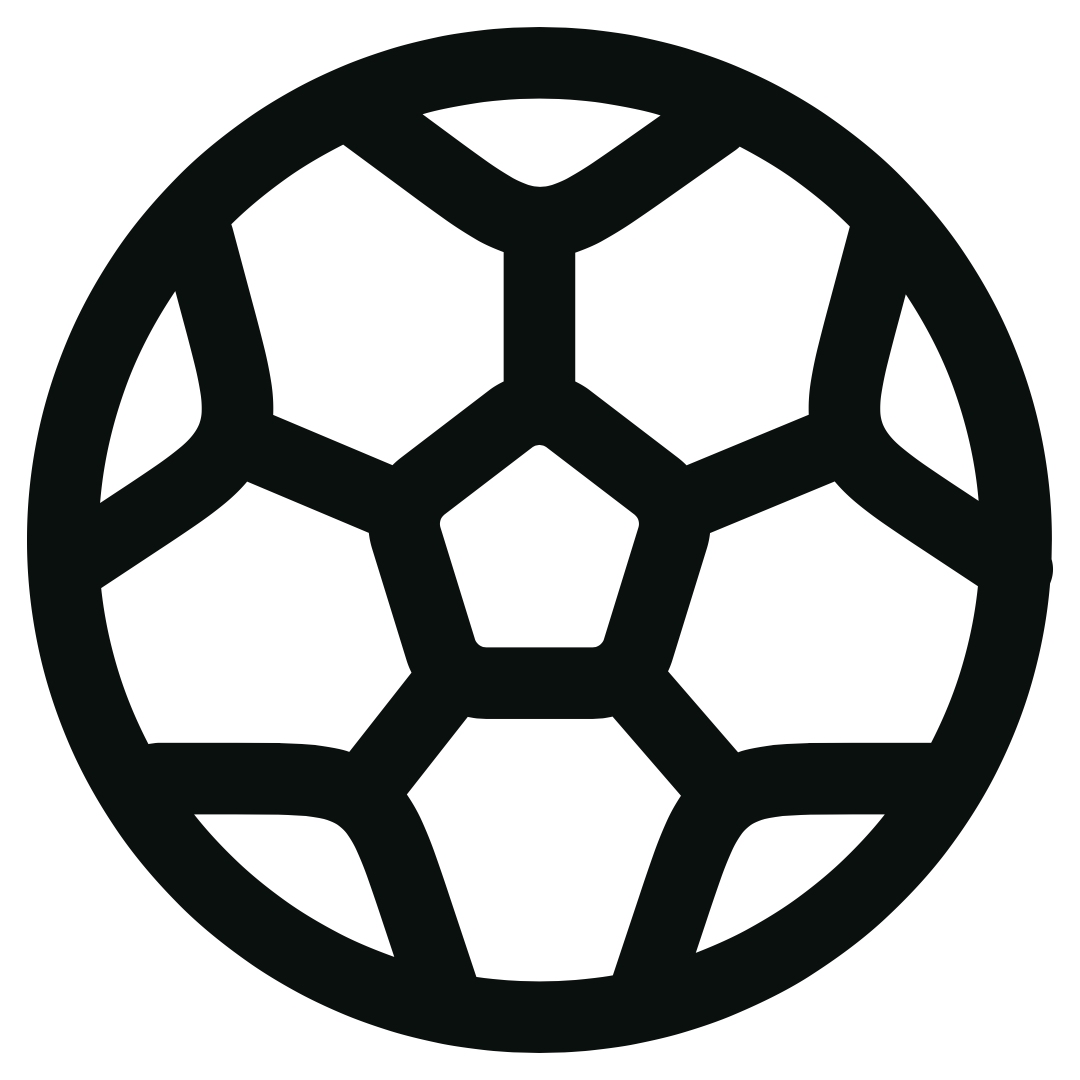
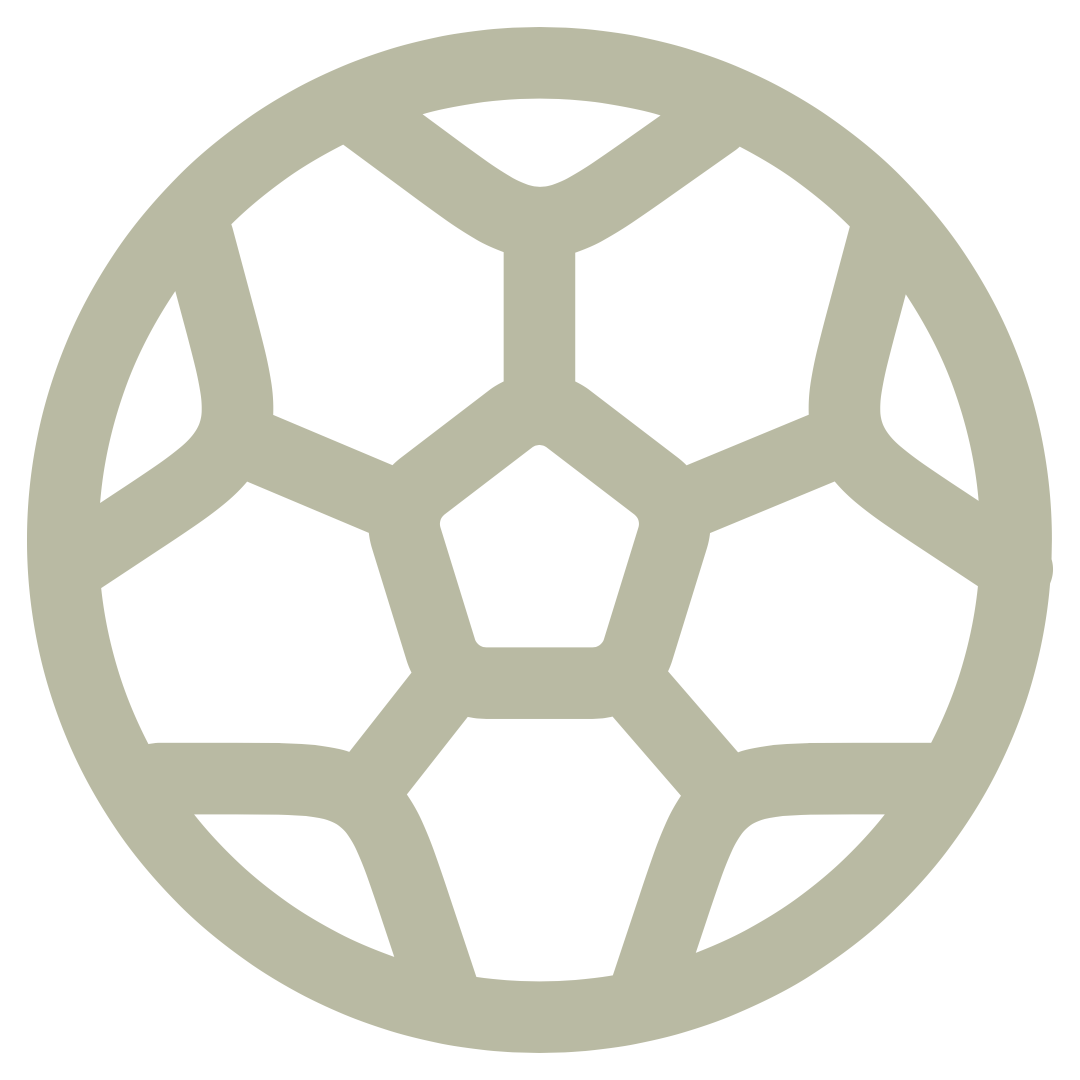
edit covered sports theming

diff --git a/src/app/components/ui/infinite-moving-cards.tsx b/src/app/components/ui/infinite-moving-cards.tsx
@@ -86,11 +86,11 @@ export const InfiniteMovingCards = ({
       >
         {items.map((item, idx) => (
           <li
-            className="w-[185px] h-[150px] relative rounded-2xl bg-neutral-400/[0.85] border border-slate-700 overflow-hidden flex items-center justify-center"
+            className="w-[200px] h-[150px] relative rounded-2xl border border-[var(--ash-grey)] overflow-hidden flex items-center justify-center"
             key={item.sportName}
           >
             <div
-              className="absolute bottom-[-30px] left-[-30px] h-36 w-36 opacity-50"
+              className="absolute bottom-[-30px] left-[-30px] h-36 w-36 opacity-75"
               style={{
                 backgroundImage: `url(${item.image})`,
                 backgroundPosition: 'bottom left',
@@ -101,7 +101,7 @@ export const InfiniteMovingCards = ({
               }}
             />
             <div className="z-50">
-              <span className="text-2xl text-[var(--night)] font-bold">
+              <span className="text-2xl text-[var(--timberwolf)] font-bold">
                 {item.sportName}
               </span>
             </div>
